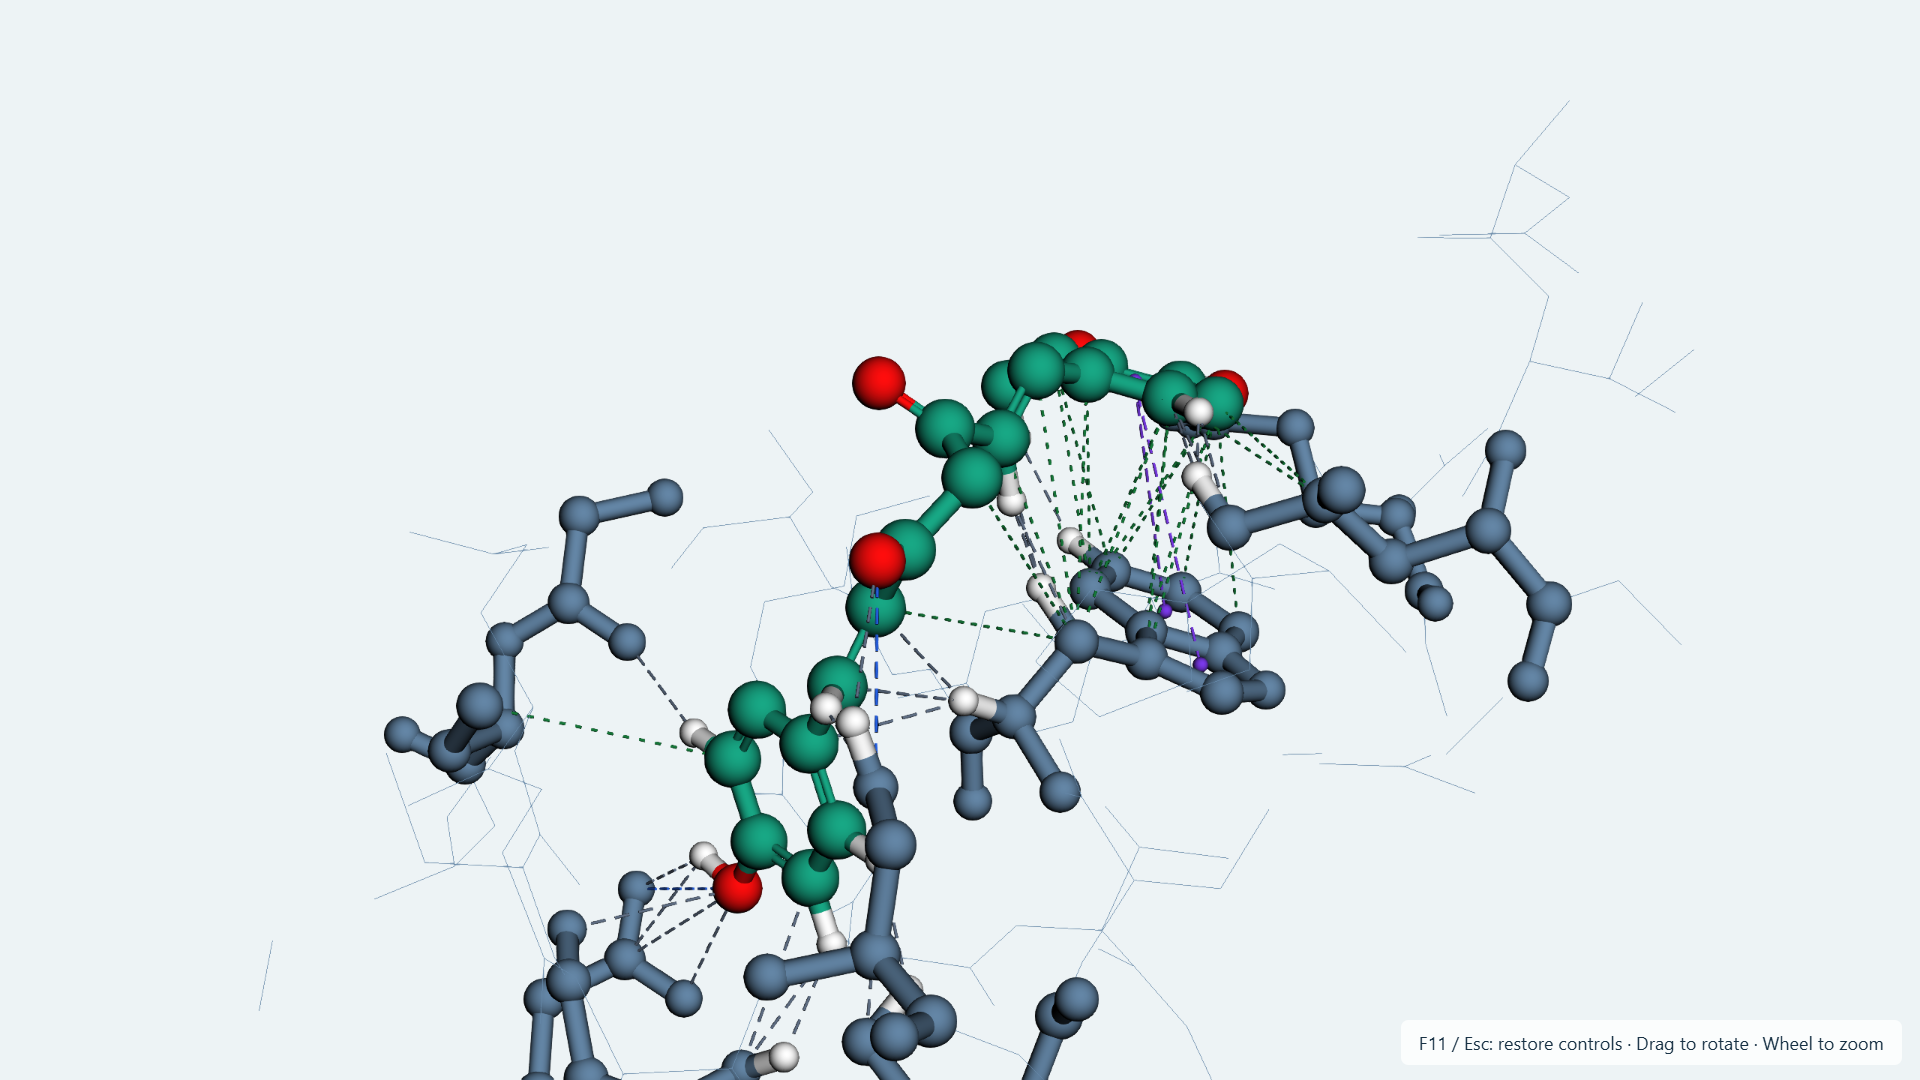
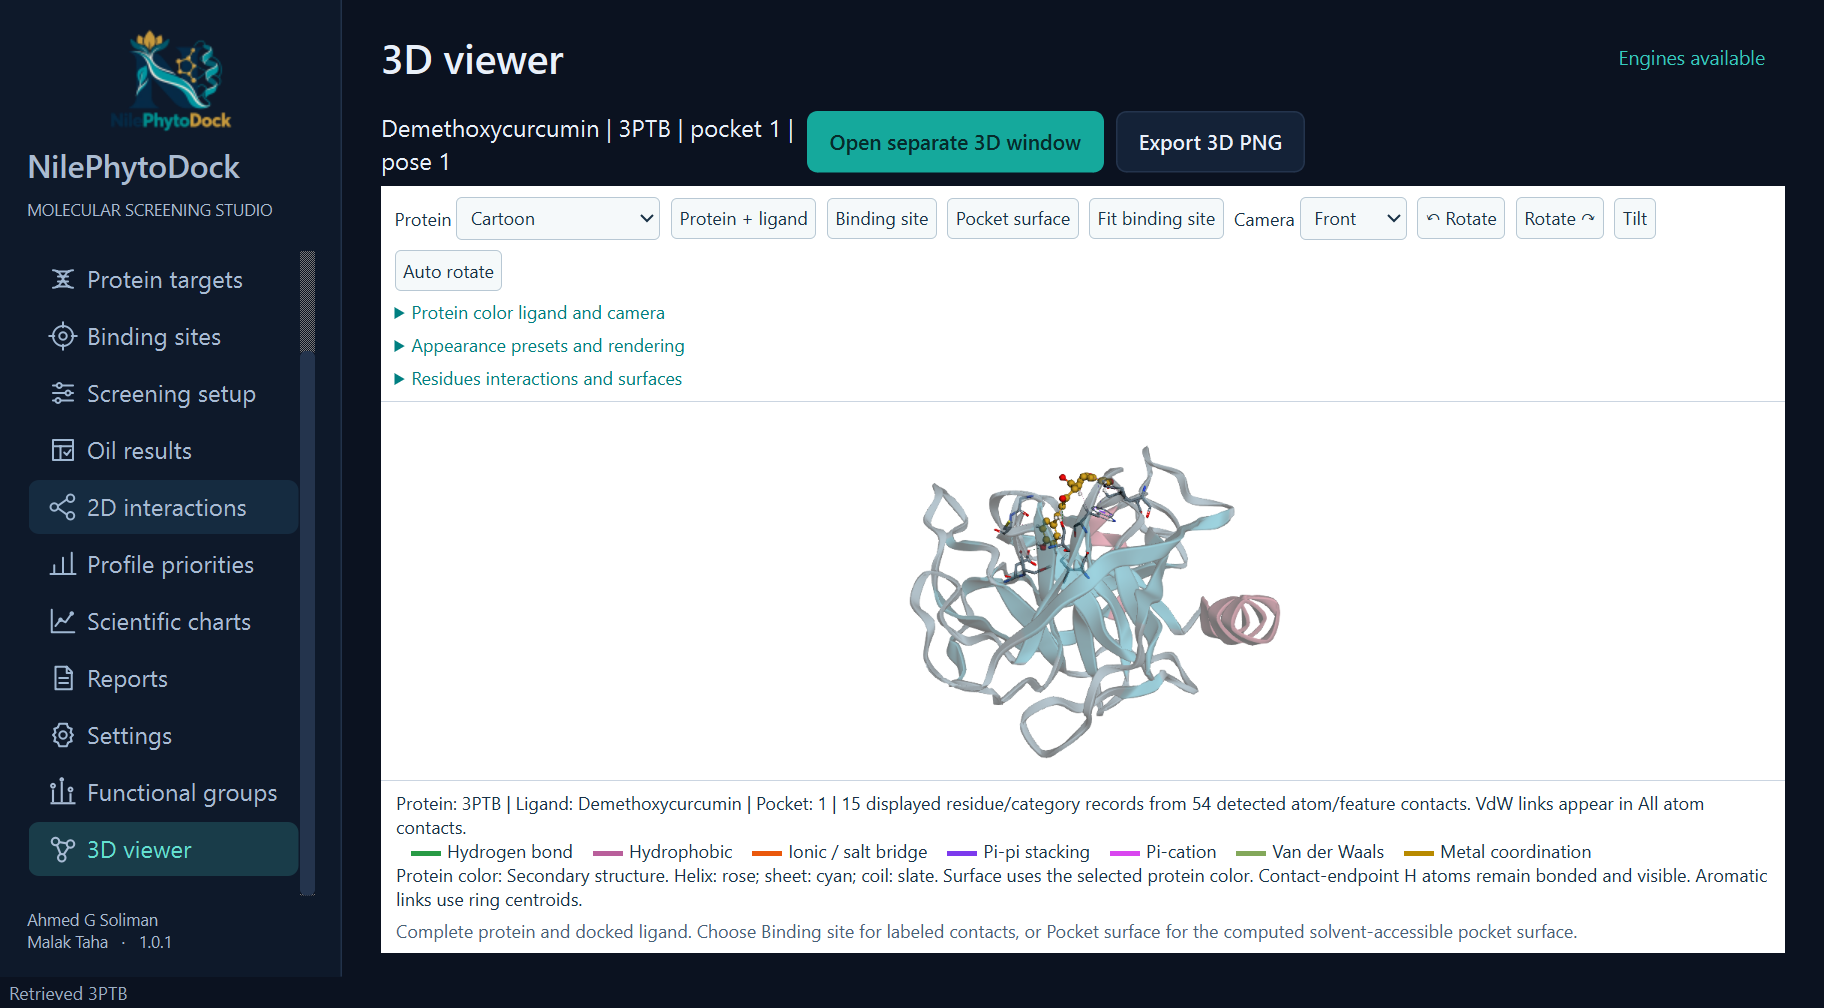
Present Studio 1.0.1 with verified molecular views and Windows download

diff --git a/README.md b/README.md
@@ -1,7 +1,7 @@
 <p align="center"><img src="assets/logo.png" width="180" alt="NilePhytoDock logo"></p>
-<h1 align="center">NilePhytoDock Studio v1.0.0</h1>
+<h1 align="center">NilePhytoDock Studio v1.0.1</h1>
 <p align="center">Local molecular screening for botanical oil research.</p>
-<p align="center"><a href="https://github.com/ahmedGSoliman99/NilePhytoDock-Studio/releases/download/v1.0.0/NilePhytoDock-v1.0.0-Setup.exe"><img src="assets/download-windows.svg" width="330" alt="Download NilePhytoDock Studio v1.0.0 for Windows"></a></p>
+<p align="center"><a href="https://github.com/ahmedGSoliman99/NilePhytoDock-Studio/releases/download/v1.0.1/NilePhytoDock-v1.0.1-Setup.exe"><img src="assets/download-windows.svg" width="330" alt="Download NilePhytoDock Studio v1.0.1 for Windows"></a></p>
 
 NilePhytoDock Studio brings source-aware botanical profiles, binding-site prediction, docking and molecular interpretation into an English Windows desktop workspace. Calculations run locally with the included scientific engines.
 
@@ -12,23 +12,28 @@ NilePhytoDock Studio brings source-aware botanical profiles, binding-site predic
 - Review the existing botanical library and its analytical sources, original units and structure-readiness information.
 - Prepare protein targets, predict pockets with P2Rank and dock eligible compounds with Smina.
 - Review each oil's best calculated compounds and the functional groups represented among top compounds for a selected protein.
-- Inspect pose-based 2D interactions and an independent, spacious 3D window with full-screen presentation.
-- Compare results using **Bubble Plot**, **Docking Heatmap** and **Interaction Matrix**, with selected-chart loading and numerical exports.
+- Retrieve validated PDB/mmCIF coordinates from IDs or structure links.
+- Save atom-anchored 2D interaction figures, choose 3D camera angles and export readable high-resolution labels.
+- Draw shared functional groups with highlighted examples from actual calculated compounds; use an independent full-screen 3D window.
+- Compare results using **Bubble Plot**, **Docking Heatmap**, **Interaction Matrix** and a score-scaled **Docking Network**, with selected-chart loading and numerical exports.
 - Export reports, figures, molecular structures and reproducibility records, and reopen saved studies.
 
 ## Inside the application
 
-Actual screenshots from NilePhytoDock Studio v1.0.0 using a verification study; these are not interface mockups.
+Actual screenshots from NilePhytoDock Studio v1.0.1 using verification studies; these are not interface mockups.
 
 ![Oil-focused docking results](assets/oil-results.png)
-![Independent molecular 3D view](assets/3d-viewer.png)
-![Minimal Scientific Charts workspace](assets/scientific-charts.png)
+![Complete protein and ligand](assets/3d-viewer.png)
+![Connected binding-site interactions and pocket surface](assets/3d-binding-site.png)
+![Score-scaled docking network](assets/scientific-charts.png)
+![Atom-anchored 2D interactions](assets/2d-interactions.png)
+![Shared functional-group structures](assets/shared-groups.png)
 
 ## Windows requirements
 
-Windows 10/11 **x64**; 8 GB RAM recommended; 4 GB free space plus research outputs; a 1366 × 768 or larger display and working graphics drivers recommended. No manual Python, Java or scientific-library installation is required. Internet access is optional for online maintenance. The English user guide is installed in the external **Documentation** folder.
+Windows 10/11 **x64**; 8 GB RAM recommended; 4 GB free space plus research outputs; a 1366 × 768 or larger display and working graphics drivers recommended. No manual Python, Java or scientific-library installation is required. Internet access is required for optional online PDB retrieval and maintenance. The English user guide is installed in the external **Documentation** folder.
 
-**First official public release:** v1.0.0. The download is unsigned; use the release checksum to verify it.
+**Current release:** v1.0.1. The first official public release remains v1.0.0. The download is unsigned; use the release checksum to verify it.
 
 ## Developers
 

diff --git a/SOURCE_ACCESS.md b/SOURCE_ACCESS.md
@@ -1,4 +1,4 @@
-# Licensing and corresponding source — v1.0.0
+# Licensing and corresponding source — v1.0.1
 
 Copyright Ahmed G Soliman and Malak Taha. NilePhytoDock Studio source is licensed under GPL-3.0-or-later, without warranty. See LICENSE and LICENSES.md. Included third-party components retain their original copyrights and terms.
 
@@ -6,7 +6,7 @@ Public product and Windows download: https://github.com/ahmedGSoliman99/NilePhyt
 
 Corresponding source, build/packaging instructions, exact dependency versions and source archives: https://github.com/ahmedGSoliman99/NilePhytoDock-Source
 
-Source downloads are available on the source repository's Releases page without payment or authentication. They are separate from the one-file Windows download. Source access remains available for the previously distributed 0.6.0 and 0.6.1 development builds as well as v1.0.0. Making the working development repository private does not revoke recipients' GPL rights or erase earlier published history.
+Source downloads are available on the source repository's Releases page without payment or authentication. They are separate from the one-file Windows download. Source access remains available for the previously distributed 0.6.0 and 0.6.1 development builds as well as v1.0.0 and v1.0.1. Making the working development repository private does not revoke recipients' GPL rights or erase earlier published history.
 
 The source archive includes the application code, essential library data/resources, requirements and scripts needed to package it. Personal working databases, research project outputs, credentials and development logs are excluded. The essential bundled seed catalog is provided as a build input, with its existing citations and rights notices; no ownership of third-party publications is claimed.
 
